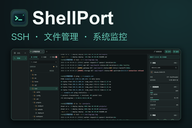
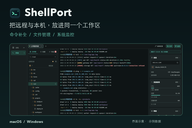
docs: 更新命令补全功能说明、官网页面及推广配图

diff --git a/site/en.html b/site/en.html
@@ -5,11 +5,11 @@
   <meta name="viewport" content="width=device-width, initial-scale=1">
   <meta name="color-scheme" content="dark">
   <meta name="theme-color" content="#0b1112">
-  <meta name="description" content="ShellPort brings SSH and native local terminals, SFTP files, text editing, system monitoring, and encrypted WebDAV configuration sync into one workspace for macOS and Windows.">
+  <meta name="description" content="ShellPort brings SSH and native local terminals, command completion, SFTP files, text editing, system monitoring, and encrypted WebDAV configuration sync into one workspace for macOS and Windows.">
   <meta property="og:type" content="website">
   <meta property="og:title" content="ShellPort · Your servers. Your workflow. Connected.">
   <meta property="og:description" content="SSH and local terminals, file editing, system monitoring, and configuration backups. One workspace for macOS and Windows.">
-  <meta property="og:image" content="https://conghuahuadan.github.io/ShellPort/assets/workspace.webp">
+  <meta property="og:image" content="https://conghuahuadan.github.io/ShellPort/assets/workspace-overview.webp">
   <meta property="og:url" content="https://conghuahuadan.github.io/ShellPort/en.html">
   <title>ShellPort · Your servers. Your workflow. Connected.</title>
   <link rel="icon" type="image/png" href="assets/appicon.png">
@@ -44,18 +44,18 @@
       <div class="connection-line" aria-hidden="true"><span class="prompt-mark">~</span><code id="connection-command">ssh your-next-server</code><span class="typing-cursor">▍</span><span class="connection-label"><i></i> CONNECT. WORK. FLOW.</span></div>
       <figure class="hero-figure">
         <div class="frame-top"><span><i></i><i></i><i></i></span><span>ShellPort / Workspace</span><span class="frame-tag">SSH · SFTP · MONITOR</span></div>
-        <img src="assets/workspace.webp" width="1560" height="980" alt="ShellPort dark workspace with a file tree, SSH terminal, and system monitoring side by side" fetchpriority="high">
-        <figcaption><span>Files on the left. Terminal at the center. Status in view.</span><span>Stay focused. Keep the big picture. <span aria-hidden="true">↗</span></span></figcaption>
+        <img src="assets/workspace-overview.webp" width="1560" height="980" alt="ShellPort dark workspace with a file tree, SSH terminal, and system monitoring side by side" fetchpriority="high">
+        <figcaption><span>Files on the left. Terminal at the center. Status in view.</span><span>UI illustration · Sample data</span></figcaption>
       </figure>
     </section>
     <section id="features" class="features wrap section" aria-labelledby="features-title">
       <div class="section-heading"><p class="eyebrow">01 / YOUR EVERYDAY TOOLS, TOGETHER</p><h2 id="features-title">From connection to action.<br>All in one place.</h2><p>Read logs, edit configuration, move files, and watch resources.<br>Keep a connected workflow inside one workspace.</p></div>
       <div class="feature-grid">
-        <article><span class="feature-number">01 / CONNECT</span><h3>A place for every host</h3><p>Group, search, sort, and diagnose hosts. Connect with a password or an OpenSSH/PEM key added by file selection, drag and drop, or paste. Keys are encrypted locally.</p><span class="feature-foot">Host groups / Key import / Diagnostics</span></article>
-        <article><span class="feature-number">02 / WORK</span><h3>Room to work in parallel</h3><p>Reorder tabs, work independently in horizontal or vertical splits, and search the current pane’s output. Native local shells include local file and monitoring panels.</p><span class="feature-foot">Split terminals / Output search / Local workspace</span></article>
+        <article><span class="feature-number">01 / CONNECT</span><h3>A place for every host</h3><p>Group, search, sort, and diagnose hosts. Open terminals from recent connections or all hosts. Connect with a password or an OpenSSH/PEM key added by file selection, drag and drop, or paste. Keys are encrypted locally.</p><span class="feature-foot">Host groups / Key import / Diagnostics</span></article>
+        <article><span class="feature-number">02 / WORK</span><h3>Room to work in parallel</h3><p>Reorder tabs, work independently in horizontal or vertical splits, and search the current pane’s output. Find command candidates and offline descriptions beside the cursor. Native local shells include local file and monitoring panels.</p><span class="feature-foot">Independent splits / Command completion / Offline descriptions</span></article>
         <article><span class="feature-number">03 / TRANSFER</span><h3>Files within reach</h3><p>Browse SFTP files, bookmark paths, and edit permissions. Drop files or upload folders as archives. Pause, resume, and retry transfers. Edit local or remote text with save conflict checks.</p><span class="feature-foot">Drop to upload / Transfer speeds / Conflict checks</span></article>
         <article><span class="feature-number">04 / OBSERVE</span><h3>Know what is happening</h3><p>Keep an eye on CPU, memory, network, and disks. Explore processes, connections, and file systems. Metrics depend on the target system and permissions.</p><span class="feature-foot">Resource trends / Processes / System details</span></article>
-        <article><span class="feature-number">05 / KEEP</span><h3>Your configuration, your way</h3><p>Export selected configuration, review import conflicts, and retain recovery snapshots. Connect your own HTTPS WebDAV service for encrypted sync and cloud backup creation and recovery.</p><span class="feature-foot">Recovery snapshots / Encrypted sync / Cloud backups</span></article>
+        <article><span class="feature-number">05 / KEEP</span><h3>Your configuration, your way</h3><p>Export selected configuration, review import conflicts, and retain recovery snapshots. Connect your own HTTPS WebDAV service for encrypted sync and cloud backup creation and recovery, with built-in WebDAV setup guides.</p><span class="feature-foot">Recovery snapshots / Encrypted sync / Cloud backups</span></article>
         <article><span class="feature-number">06 / MAKE IT YOURS</span><h3>Make yourself at home</h3><p>Choose Chinese or English, themes, fonts, and shortcuts. Remember window placement or keep work in the background with tray access. Install verified updates and export diagnostic logs.</p><span class="feature-foot">Appearance / Background mode / Update installation</span></article>
       </div>
     </section>
@@ -63,6 +63,10 @@
       <div class="wrap">
         <div class="section-heading"><p class="eyebrow">02 / SPACE FOR YOUR WORKFLOW</p><h2 id="workspace-title">Side by side.<span> Stay in context.</span></h2><p>Read logs in one pane. Run commands in another.<br>Keep files and monitoring in view as you work.</p></div>
         <figure class="screenshot"><img src="assets/split-terminal.webp" width="1560" height="980" alt="Two SSH terminals sharing a file tree and resource monitoring panels" loading="lazy" decoding="async"><figcaption><span>Split terminals</span><span>Keep your context. Find your flow.</span></figcaption></figure>
+        <div class="completion-intro">
+          <div><p class="eyebrow">FIND COMMANDS AS YOU TYPE</p><h2>Hints at the cursor.<br>Keep working in your shell.</h2></div>
+          <div><p>Find commands from the current connection with prefix, substring, and fuzzy matching. Read bundled Chinese and English tldr-pages descriptions offline.</p><p>Select with arrow keys. <kbd>Tab</kbd> / <kbd>Enter</kbd> inserts the name; release the key and press <kbd>Enter</kbd> again to execute. <kbd>Esc</kbd> dismisses. Arguments and paths use shell completion. Shell history is never read.</p></div>
+        </div>
         <div class="light-intro"><div><p class="eyebrow">A DIFFERENT LIGHT. THE SAME FOCUS.</p><h2>Calm in dark. Clear in light.</h2></div><p>From hosts to terminal sessions,<br> choose the look that fits your surroundings.</p></div>
         <figure class="screenshot"><img src="assets/hosts-light.webp" width="1560" height="980" alt="Host management in the light theme, with environment groups, search, and system information cards" loading="lazy" decoding="async"><figcaption><span>Host management · Light theme</span><span>A place for every connection.</span></figcaption></figure>
       </div>
@@ -81,10 +85,11 @@
       <div class="faq-list">
         <details><summary>Do I need cloud sync to use ShellPort?</summary><p>No ShellPort account is required. WebDAV is off by default and uses your chosen HTTPS service. Confirm the scope and initial strategy to enable startup and normal-exit sync when authorization is valid and no conflicts occur. Manual sync is available; conflicts require confirmation. Built-in cloud and membership services are not currently available.</p></details>
         <details><summary>Can I use a local terminal too?</summary><p>Yes. Open a native local terminal from the hosts page without creating an SSH host. File browsing, text editing, and monitoring use local data. Local files and per-tab local bookmarks are excluded from configuration backups and sync.</p></details>
-        <details><summary>Are private keys included in sync or backups?</summary><p>No. Private keys are encrypted locally and excluded from exports and sync; passphrases are used only for the current operation. Login passwords are excluded by default and require explicit selection. WebDAV documents are encrypted as a whole. Local JSON leaves host addresses and other configuration readable; password fields use a built-in portable key, which is not master-password protection. Keep backups safe.</p></details>
+        <details><summary>Are private keys included in sync or backups?</summary><p>No. Private keys are encrypted locally and excluded from exports and sync; passphrases are used only for the current operation. Login passwords are excluded by default and require explicit selection. WebDAV documents are encrypted as a whole using a key derived from the WebDAV password; this does not guarantee that the provider cannot decrypt them. Local JSON leaves host addresses and other configuration readable; password fields use a built-in portable key, which is not master-password protection. Keep backups safe.</p></details>
         <details><summary>Where can I find older versions and release notes?</summary><p>Find past versions, release notes, and packages in <a href="https://github.com/conghuahuadan/ShellPort/releases">Releases</a>. You can also share issues and ideas on GitHub.</p></details>
         <details><summary>What should I include in an issue report?</summary><p>Include your operating system, processor architecture, ShellPort version, reproduction steps, and expected and actual results. Screenshots or sanitized logs help. Do not upload passwords, private keys, databases, local encryption key files, or unsanitized logs.</p></details>
         <details><summary>Does the first connection ask me to confirm a fingerprint?</summary><p>The first SSH connection or connection test automatically records the host key for that address and port, without a confirmation dialog. Later key changes block the connection. Host fingerprints stay on the device and are excluded from configuration sync.</p></details>
+        <details><summary>Does command completion execute commands?</summary><p>No. It appears at recognized command input positions and only inserts a command name. Press Enter again to execute. It does not generate AI commands or guarantee coverage of temporary aliases, functions, or PATH changes in the active shell. Some commands may have no bundled description.</p></details>
         <details><summary>What are the current limits?</summary><p>Public packages target macOS and Windows; no Linux package is currently provided. Text editing supports regular text files up to 2 MiB. Monitoring and permission operations depend on the system and access rights. Jump hosts, SSH agents, hardware keys, keyboard-interactive MFA, and automatic reconnection are not currently supported.</p></details>
       </div>
     </section>

diff --git a/site/index.html b/site/index.html
@@ -5,11 +5,11 @@
   <meta name="viewport" content="width=device-width, initial-scale=1">
   <meta name="color-scheme" content="dark">
   <meta name="theme-color" content="#0b1112">
-  <meta name="description" content="ShellPort 是适用于 macOS 和 Windows 的桌面工作区，集成 SSH 与本机终端、SFTP 文件管理、文本编辑、系统监控及 WebDAV 加密配置同步。">
+  <meta name="description" content="ShellPort 是适用于 macOS 和 Windows 的桌面工作区，集成 SSH 与本机终端、命令补全、SFTP 文件管理、文本编辑、系统监控及 WebDAV 加密配置同步。">
   <meta property="og:type" content="website">
   <meta property="og:title" content="ShellPort · 连接服务器，也连接你的工作流">
   <meta property="og:description" content="SSH 与本机终端、文件编辑、系统监控和配置备份，一个工作空间。支持 macOS 与 Windows。">
-  <meta property="og:image" content="https://conghuahuadan.github.io/ShellPort/assets/workspace.webp">
+  <meta property="og:image" content="https://conghuahuadan.github.io/ShellPort/assets/workspace-overview.webp">
   <meta property="og:url" content="https://conghuahuadan.github.io/ShellPort/">
   <title>ShellPort · 连接服务器，也连接你的工作流</title>
   <link rel="icon" type="image/png" href="assets/appicon.png">
@@ -44,18 +44,18 @@
       <div class="connection-line" aria-hidden="true"><span class="prompt-mark">~</span><code id="connection-command">ssh your-next-server</code><span class="typing-cursor">▍</span><span class="connection-label"><i></i> CONNECT. WORK. FLOW.</span></div>
       <figure class="hero-figure">
         <div class="frame-top"><span><i></i><i></i><i></i></span><span>ShellPort / 工作空间</span><span class="frame-tag">SSH · SFTP · MONITOR</span></div>
-        <img src="assets/workspace.webp" width="1560" height="980" alt="ShellPort 深色工作区，文件树、SSH 终端与系统资源监控同屏显示" fetchpriority="high">
-        <figcaption><span>文件在左，终端居中，状态在侧。</span><span>专注操作，也掌握全局 <span aria-hidden="true">↗</span></span></figcaption>
+        <img src="assets/workspace-overview.webp" width="1560" height="980" alt="ShellPort 深色工作区，文件树、SSH 终端与系统资源监控同屏显示" fetchpriority="high">
+        <figcaption><span>文件在左，终端居中，状态在侧。</span><span>界面示意 · 包含示例数据</span></figcaption>
       </figure>
     </section>
     <section id="features" class="features wrap section" aria-labelledby="features-title">
       <div class="section-heading"><p class="eyebrow">01 / 日常所需，放在一起</p><h2 id="features-title">从连接到处理，<br>一处完成。</h2><p>查看日志、调整配置、传输文件、观察资源。<br>让这些连贯的操作，留在同一个工作空间。</p></div>
       <div class="feature-grid">
-        <article><span class="feature-number">01 / CONNECT</span><h3>主机井井有条</h3><p>按用途分组、搜索与排序主机，连接前可进行诊断。支持密码认证，或选择、拖入、粘贴 OpenSSH/PEM 私钥，加密保存在本机。</p><span class="feature-foot">主机分组 / 私钥导入 / 连接诊断</span></article>
-        <article><span class="feature-number">02 / WORK</span><h3>终端各就其位</h3><p>拖动标签排序，横向或纵向分屏独立操作，查找当前屏幕输出。本机终端使用原生 Shell，也配有本机文件与监控侧栏。</p><span class="feature-foot">独立分屏 / 输出查找 / 本机工作区</span></article>
+        <article><span class="feature-number">01 / CONNECT</span><h3>主机井井有条</h3><p>按用途分组、搜索与排序主机，连接前可进行诊断；新建终端可查找最近连接或全部主机。支持密码认证，或选择、拖入、粘贴 OpenSSH/PEM 私钥，加密保存在本机。</p><span class="feature-foot">主机分组 / 私钥导入 / 连接诊断</span></article>
+        <article><span class="feature-number">02 / WORK</span><h3>终端各就其位</h3><p>拖动标签排序，横向或纵向分屏独立操作，查找当前屏幕输出。输入命令名时，在光标旁查看候选与离线说明。本机终端使用原生 Shell，也配有本机文件与监控侧栏。</p><span class="feature-foot">独立分屏 / 命令补全 / 离线说明</span></article>
         <article><span class="feature-number">03 / TRANSFER</span><h3>文件就在手边</h3><p>通过 SFTP 浏览、收藏和修改权限，拖放上传或打包上传文件夹。传输可暂停、继续和重试；本机与远程文本保存前检查冲突。</p><span class="feature-foot">拖放上传 / 传输速度 / 冲突检查</span></article>
         <article><span class="feature-number">04 / OBSERVE</span><h3>状态一眼可见</h3><p>在终端旁关注 CPU、内存、网络与磁盘，进一步查看进程、连接和文件系统。可用指标取决于目标系统及权限。</p><span class="feature-foot">资源趋势 / 进程信息 / 系统详情</span></article>
-        <article><span class="feature-number">05 / KEEP</span><h3>配置随你安排</h3><p>按范围导出、导入配置，预检冲突并保留恢复快照。连接自己的 HTTPS WebDAV 服务，加密同步所选配置，创建和恢复云备份。</p><span class="feature-foot">恢复快照 / 加密同步 / 云备份</span></article>
+        <article><span class="feature-number">05 / KEEP</span><h3>配置随你安排</h3><p>按范围导出、导入配置，预检冲突并保留恢复快照。连接自己的 HTTPS WebDAV 服务，加密同步所选配置，创建和恢复云备份，内置 WebDAV 接入教程。</p><span class="feature-foot">恢复快照 / 加密同步 / 云备份</span></article>
         <article><span class="feature-number">06 / MAKE IT YOURS</span><h3>用得更合习惯</h3><p>中英文与深浅主题，字体和快捷键按需调整。记忆窗口位置，可关闭到后台再从托盘恢复；应用内校验安装更新，支持诊断日志导出。</p><span class="feature-foot">外观设置 / 后台保留 / 更新安装</span></article>
       </div>
     </section>
@@ -63,6 +63,10 @@
       <div class="wrap">
         <div class="section-heading"><p class="eyebrow">02 / 给工作留出空间</p><h2 id="workspace-title">并排操作，<span>思路不断线。</span></h2><p>一边看日志，一边执行命令。<br>分屏各自操作，文件与监控持续可见。</p></div>
         <figure class="screenshot"><img src="assets/split-terminal.webp" width="1560" height="980" alt="两个并排的 SSH 终端，共享文件树与资源监控侧栏" loading="lazy" decoding="async"><figcaption><span>终端分屏</span><span>保留上下文，减少来回切换。</span></figcaption></figure>
+        <div class="completion-intro">
+          <div><p class="eyebrow">命令名，边输入边查找</p><h2>提示跟着光标，<br>操作留在终端。</h2></div>
+          <div><p>从当前连接读取可用命令，支持前缀、包含与模糊匹配。内置 tldr-pages 中英文离线简介，无需另开页面查阅命令用途。</p><p>方向键选择，<kbd>Tab</kbd> / <kbd>Enter</kbd> 填入，松开后再次按 <kbd>Enter</kbd> 执行，<kbd>Esc</kbd> 收起。参数与路径继续使用 Shell 自身补全，不读取 Shell 历史。</p></div>
+        </div>
         <div class="light-intro"><div><p class="eyebrow">换一种光线，继续专注</p><h2>深色沉静，浅色清爽。</h2></div><p>从主机管理到终端操作，<br>选择适合你工作环境的外观。</p></div>
         <figure class="screenshot"><img src="assets/hosts-light.webp" width="1560" height="980" alt="浅色主题主机管理页面，按环境分组，卡片展示系统、硬件和连接信息" loading="lazy" decoding="async"><figcaption><span>主机管理 · 浅色外观</span><span>每一个连接，都有自己的位置。</span></figcaption></figure>
       </div>
@@ -81,10 +85,11 @@
       <div class="faq-list">
         <details><summary>必须配置云同步才能使用吗？</summary><p>不需要，也无需注册 ShellPort 账号。WebDAV 默认关闭，仅连接你选择的 HTTPS 服务。确认范围与首次策略后，授权有效且无冲突时可在启动和正常退出时同步，使用中可手动同步；冲突需要确认。当前未开放内置云服务或会员服务。</p></details>
         <details><summary>本机终端也可以使用吗？</summary><p>可以。从主机页打开原生本机终端，无需创建 SSH 主机；文件树、文本编辑和系统监控读取本机数据。本机文件及标签内收藏不进入配置备份或同步。</p></details>
-        <details><summary>私钥会随配置一起同步或备份吗？</summary><p>不会。私钥加密保存在本机，不进入导出或云同步；私钥口令仅用于当次操作。登录密码默认不纳入备份或同步，需显式勾选。WebDAV 文档整体加密；本地 JSON 的地址等配置为明文，密码字段使用内置便携密钥加密，不等同于主密码保护，请妥善保管。</p></details>
+        <details><summary>私钥会随配置一起同步或备份吗？</summary><p>不会。私钥加密保存在本机，不进入导出或云同步；私钥口令仅用于当次操作。登录密码默认不纳入备份或同步，需显式勾选。WebDAV 文档整体加密，密钥由 WebDAV 密码派生，不宣称服务商不可解密；本地 JSON 的地址等配置为明文，密码字段使用内置便携密钥加密，不等同于主密码保护，请妥善保管。</p></details>
         <details><summary>在哪里查看历史版本与更新内容？</summary><p>历史版本、更新内容和对应安装包可在 <a href="https://github.com/conghuahuadan/ShellPort/releases">Releases</a> 查看。遇到问题或有新的建议，也欢迎通过 GitHub 反馈。</p></details>
         <details><summary>反馈问题时需要提供什么？</summary><p>请提供系统版本、处理器架构、ShellPort 版本、复现步骤、预期与实际结果。可以附上截图或脱敏日志，请勿上传密码、私钥、数据库、本机密钥文件或未经脱敏的日志。</p></details>
         <details><summary>首次连接会确认主机指纹吗？</summary><p>当前首次 SSH 连接或连接测试会自动记录该地址与端口的主机密钥，不弹出指纹确认；后续密钥变化时阻止连接。主机指纹只保存在本机，不随配置同步。</p></details>
+        <details><summary>命令补全会自动执行吗？</summary><p>不会。候选只在已识别的命令输入位置显示，确认时只填入命令名，需要再次按 Enter 才执行。它不提供 AI 命令生成，也不保证覆盖当前 Shell 临时定义的别名、函数或临时修改的 PATH。未收录的命令可能没有离线说明。</p></details>
         <details><summary>当前有哪些使用边界？</summary><p>公开安装包面向 macOS 与 Windows，暂无 Linux 包。文本编辑支持最多 2 MiB 的普通文本文件；监控与权限操作取决于系统和权限。暂不支持跳板机、SSH agent、硬件密钥、键盘交互式 MFA 或断线自动重连。</p></details>
       </div>
     </section>

diff --git a/site/styles.css b/site/styles.css
@@ -288,3 +288,10 @@ body { position: relative; isolation: isolate; }
   #signal-field { display: none; }
   .button:hover { transform: none; }
 }
+
+/* Command completion introduction shares the existing showcase layout. */
+.completion-intro { display: grid; grid-template-columns: 1fr 1fr; gap: 48px; align-items: start; margin: 64px 0; padding: 36px 0; border-top: 1px solid var(--line, #273b3a); border-bottom: 1px solid var(--line, #273b3a); }
+.completion-intro h2 { margin: 12px 0 0; font-size: clamp(28px, 3.5vw, 48px); line-height: 1.25; }
+.completion-intro p { line-height: 1.9; }
+.completion-intro kbd { padding: 2px 6px; border: 1px solid #45635f; border-radius: 4px; font: inherit; white-space: nowrap; }
+@media (max-width: 760px) { .completion-intro { grid-template-columns: 1fr; gap: 16px; margin: 40px 0; padding: 24px 0; } }

diff --git a/README.en.md b/README.en.md
@@ -15,9 +15,11 @@ Bring SSH and local terminals, file editing, system monitoring, and configuratio
 
 macOS / Windows · Intel / Apple Silicon / ARM64 · Dark / Light
 
-![ShellPort workspace with a file tree, SSH terminal, and system monitoring side by side](site/assets/workspace.webp)
+![ShellPort workspace with a file tree, SSH terminal, and system monitoring side by side](site/assets/workspace-overview.webp)
 
 </div>
+
+*UI illustrations contain sample data. Features below describe the current implementation; check each release for availability.*
 
 ## From connection to action, in one place
 
@@ -25,11 +27,12 @@ Watch resource usage while reading logs. Manage remote files right beside the te
 
 | Feature | What you can do |
 | --- | --- |
-| **Host management** | Group, search, and sort hosts, diagnose connections, and reconnect manually. Use passwords or OpenSSH/PEM keys added by file selection, drag and drop, or paste. |
+| **Host management** | Group, search, and sort hosts, diagnose connections, and reconnect manually. Search recent connections or all hosts when opening a terminal. Use passwords or OpenSSH/PEM keys added by file selection, drag and drop, or paste. |
 | **Terminal workspace** | Switch and reorder tabs, work independently in horizontal or vertical splits, and search the current pane’s output. Native local shells include local file and monitoring panels. |
+| **Command completion and descriptions** | See commands from the current connection beside the cursor, with fuzzy matching and bundled Chinese/English descriptions. Select with arrow keys; Tab / Enter inserts the name, and a separate Enter executes it. |
 | **Files and transfers** | Browse SFTP directories, bookmark paths, edit permissions, drop files to upload, and upload folders as archives. Pause, resume, or retry transfers and see transfer speeds. Edit local or remote text with save conflict checks and draft export. |
 | **System monitoring** | Keep CPU, memory, network, and disk activity beside the terminal. Explore processes, connections, and file systems. Available metrics depend on the target system and permissions. |
-| **Backup and sync** | Export and import selected configuration, review conflicts, and retain recovery snapshots. Use your own HTTPS WebDAV service for encrypted configuration sync and cloud backup creation and recovery. |
+| **Backup and sync** | Export and import selected configuration, review conflicts, and retain recovery snapshots. Use your own HTTPS WebDAV service for encrypted configuration sync and cloud backup creation and recovery, with built-in WebDAV setup guides. |
 | **Appearance and updates** | Choose Chinese or English, dark or light themes, terminal fonts, and shortcuts. Remember window placement, optionally keep work running in the background with tray/menu bar access, install verified updates, and export local diagnostic logs. |
 
 ## A workspace that keeps you in context
@@ -45,6 +48,12 @@ Each split terminal works independently while the file and monitoring panels sta
 Group production, development, and personal servers. Find a host by name, address, or username, and switch to a light theme when it suits your environment.
 
 ![Host groups, search, and information cards in the ShellPort light theme](site/assets/hosts-light.webp)
+
+### A little help while typing
+
+Type a command name to see candidates beside the cursor and read bundled tldr-pages descriptions. Descriptions follow the interface language, fall back from Chinese to English, and indicate when no description is available.
+
+Select with arrow keys. **Tab / Enter inserts the command name**; release the key and press Enter again to execute. Esc dismisses the list. Candidates come from the current connection without reading shell history. Arguments, paths, and complex expressions use the shell’s own completion.
 
 ## Download
 
@@ -97,7 +106,7 @@ No ShellPort account is required. WebDAV is off by default. Connect your own HTT
 <details>
 <summary><strong>Are private keys included in backups or sync?</strong></summary>
 
-No. SSH private keys are encrypted locally and excluded from exports and cloud sync. Add them again on a new device; key passphrases are used only for the current operation. Login passwords are excluded by default and require explicit selection. WebDAV documents are encrypted as a whole. Local JSON exports leave host addresses and other configuration readable; password fields use a built-in portable encryption key, which is not master-password protection. Keep backups safe.
+No. SSH private keys are encrypted locally and excluded from exports and cloud sync. Add them again on a new device; key passphrases are used only for the current operation. Login passwords are excluded by default and require explicit selection. WebDAV documents are encrypted as a whole using a key derived from the WebDAV password; this does not guarantee that the provider cannot decrypt them. Local JSON exports leave host addresses and other configuration readable; password fields use a built-in portable encryption key, which is not master-password protection. Keep backups safe.
 
 </details>
 

diff --git a/README.md b/README.md
@@ -15,9 +15,11 @@
 
 macOS / Windows · Intel / Apple Silicon / ARM64 · 深色 / 浅色
 
-![ShellPort 工作区：左侧文件树，中间 SSH 终端，右侧系统与资源监控](site/assets/workspace.webp)
+![ShellPort 工作区：左侧文件树，中间 SSH 终端，右侧系统与资源监控](site/assets/workspace-overview.webp)
 
 </div>
+
+*界面示意包含示例数据；以下按当前实现介绍，下载版本请以对应发布说明为准。*
 
 ## 从连接到处理，一处完成
 
@@ -25,11 +27,12 @@ macOS / Windows · Intel / Apple Silicon / ARM64 · 深色 / 浅色
 
 | 能力 | 你可以做什么 |
 | --- | --- |
-| **主机管理** | 按环境或用途整理分组，搜索与排序主机，诊断连接并手动重连。支持密码认证，以及选择、拖入或粘贴 OpenSSH/PEM 私钥。 |
+| **主机管理** | 按环境或用途整理分组，搜索与排序主机，诊断连接并手动重连；新建终端可搜索最近连接或全部主机。支持密码认证，以及选择、拖入或粘贴 OpenSSH/PEM 私钥。 |
 | **终端工作区** | 用标签切换、拖动排序，通过横向/纵向分屏独立操作，查找当前屏幕输出。本机终端使用原生 Shell，并提供本机文件与监控侧栏。 |
+| **命令补全与说明** | 输入命令名时，在光标旁查看来自当前连接的候选，支持模糊匹配和中英文离线简介；用方向键选择，Tab / Enter 填入，再次确认执行。 |
 | **文件与传输** | 浏览 SFTP 文件树、收藏路径、修改权限，拖放上传文件或打包上传文件夹；传输支持暂停、继续、重试与速度显示。本机/远程文本编辑支持保存冲突检查和草稿副本导出。 |
 | **系统监控** | 在终端旁查看 CPU、内存、网络和磁盘状态，进一步查看进程、连接和文件系统。具体指标取决于目标系统及权限。 |
-| **备份与同步** | 按范围导出/导入配置，预检冲突并保留恢复快照；通过自己的 HTTPS WebDAV 服务加密同步所选配置、创建和恢复云备份。 |
+| **备份与同步** | 按范围导出/导入配置，预检冲突并保留恢复快照；通过自己的 HTTPS WebDAV 服务加密同步所选配置、创建和恢复云备份，内置 WebDAV 接入教程。 |
 | **外观与更新** | 切换中英文与深浅主题，调整终端字体和快捷键；记忆窗口位置，按需关闭到后台，通过托盘/菜单栏恢复；在应用内检查、下载、校验并安装更新，导出本地诊断日志。 |
 
 ## 看看工作空间
@@ -45,6 +48,12 @@ macOS / Windows · Intel / Apple Silicon / ARM64 · 深色 / 浅色
 将生产、开发和个人服务器分组管理，按名称、地址或用户名查找。喜欢明亮界面时，也可以切换到浅色主题。
 
 ![ShellPort 浅色主题下的主机分组、搜索与主机信息卡片](site/assets/hosts-light.webp)
+
+### 输入命令时，多一点提示
+
+输入命令名后，可在光标旁选择候选，并查看内置 tldr-pages 命令简介。说明跟随界面语言，中文缺失时回退英文；没有收录的命令会提示未提供说明。
+
+方向键选择，**Tab / Enter 只填入命令名**，松开后再次按 Enter 才执行；Esc 收起。候选来自当前连接的可用命令，不读取 Shell 历史；参数、路径和复杂表达式继续交给 Shell 自身补全。
 
 ## 下载
 
@@ -97,7 +106,7 @@ Mac 可在“关于本机”中确认芯片；Windows 可在“设置 → 系统
 <details>
 <summary><strong>私钥会随配置备份或同步吗？</strong></summary>
 
-不会。SSH 私钥加密保存在本机，不进入本地导出或云同步，换设备后需要重新提供；私钥口令仅用于当次操作。登录密码默认不纳入备份或同步，需显式勾选。WebDAV 同步文档整体加密；本地 JSON 中地址等配置为明文，密码字段采用内置便携密钥加密，不等同于主密码保护，请妥善保管备份。
+不会。SSH 私钥加密保存在本机，不进入本地导出或云同步，换设备后需要重新提供；私钥口令仅用于当次操作。登录密码默认不纳入备份或同步，需显式勾选。WebDAV 同步文档整体加密，密钥由 WebDAV 密码派生，不宣称服务商不可解密；本地 JSON 中地址等配置为明文，密码字段采用内置便携密钥加密，不等同于主密码保护，请妥善保管备份。
 
 </details>
 
